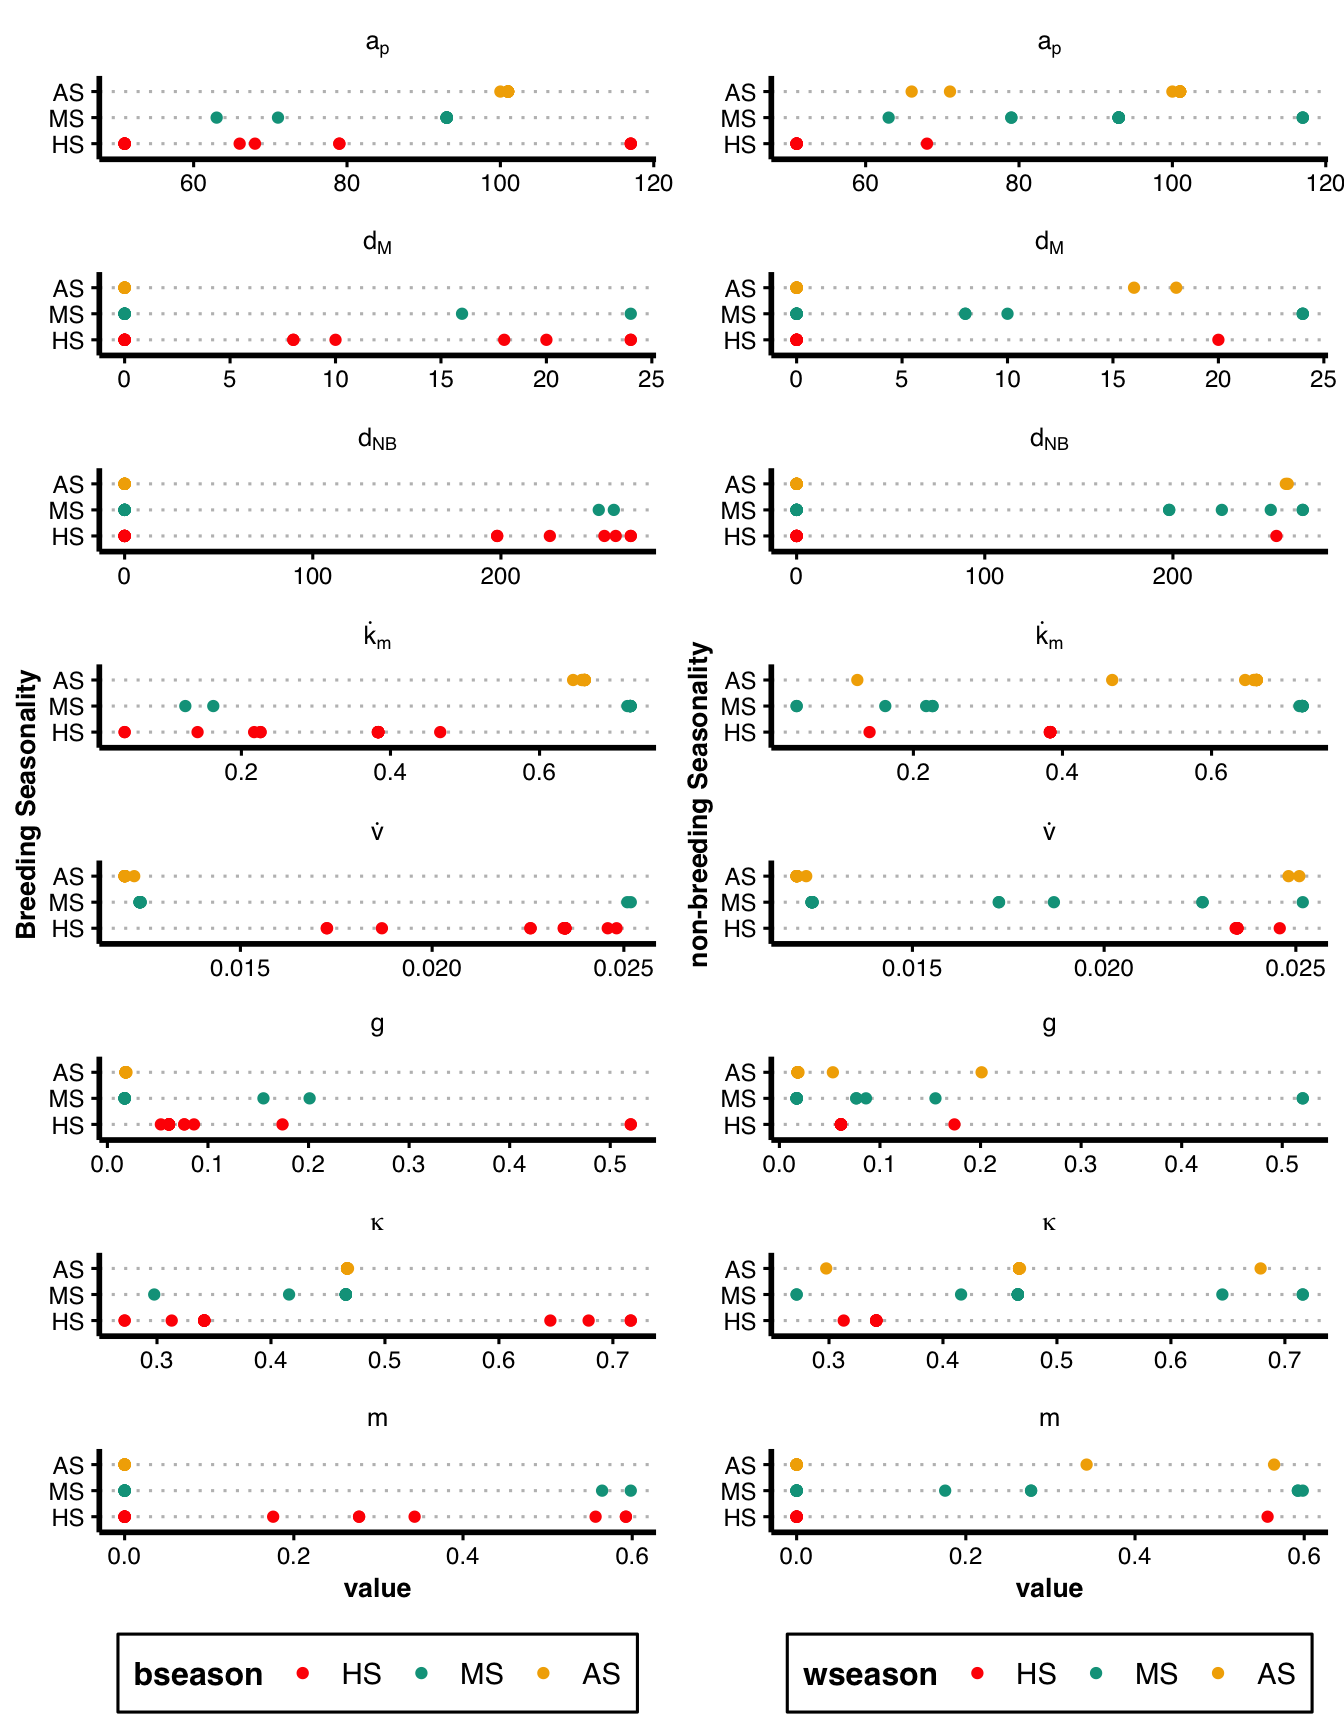
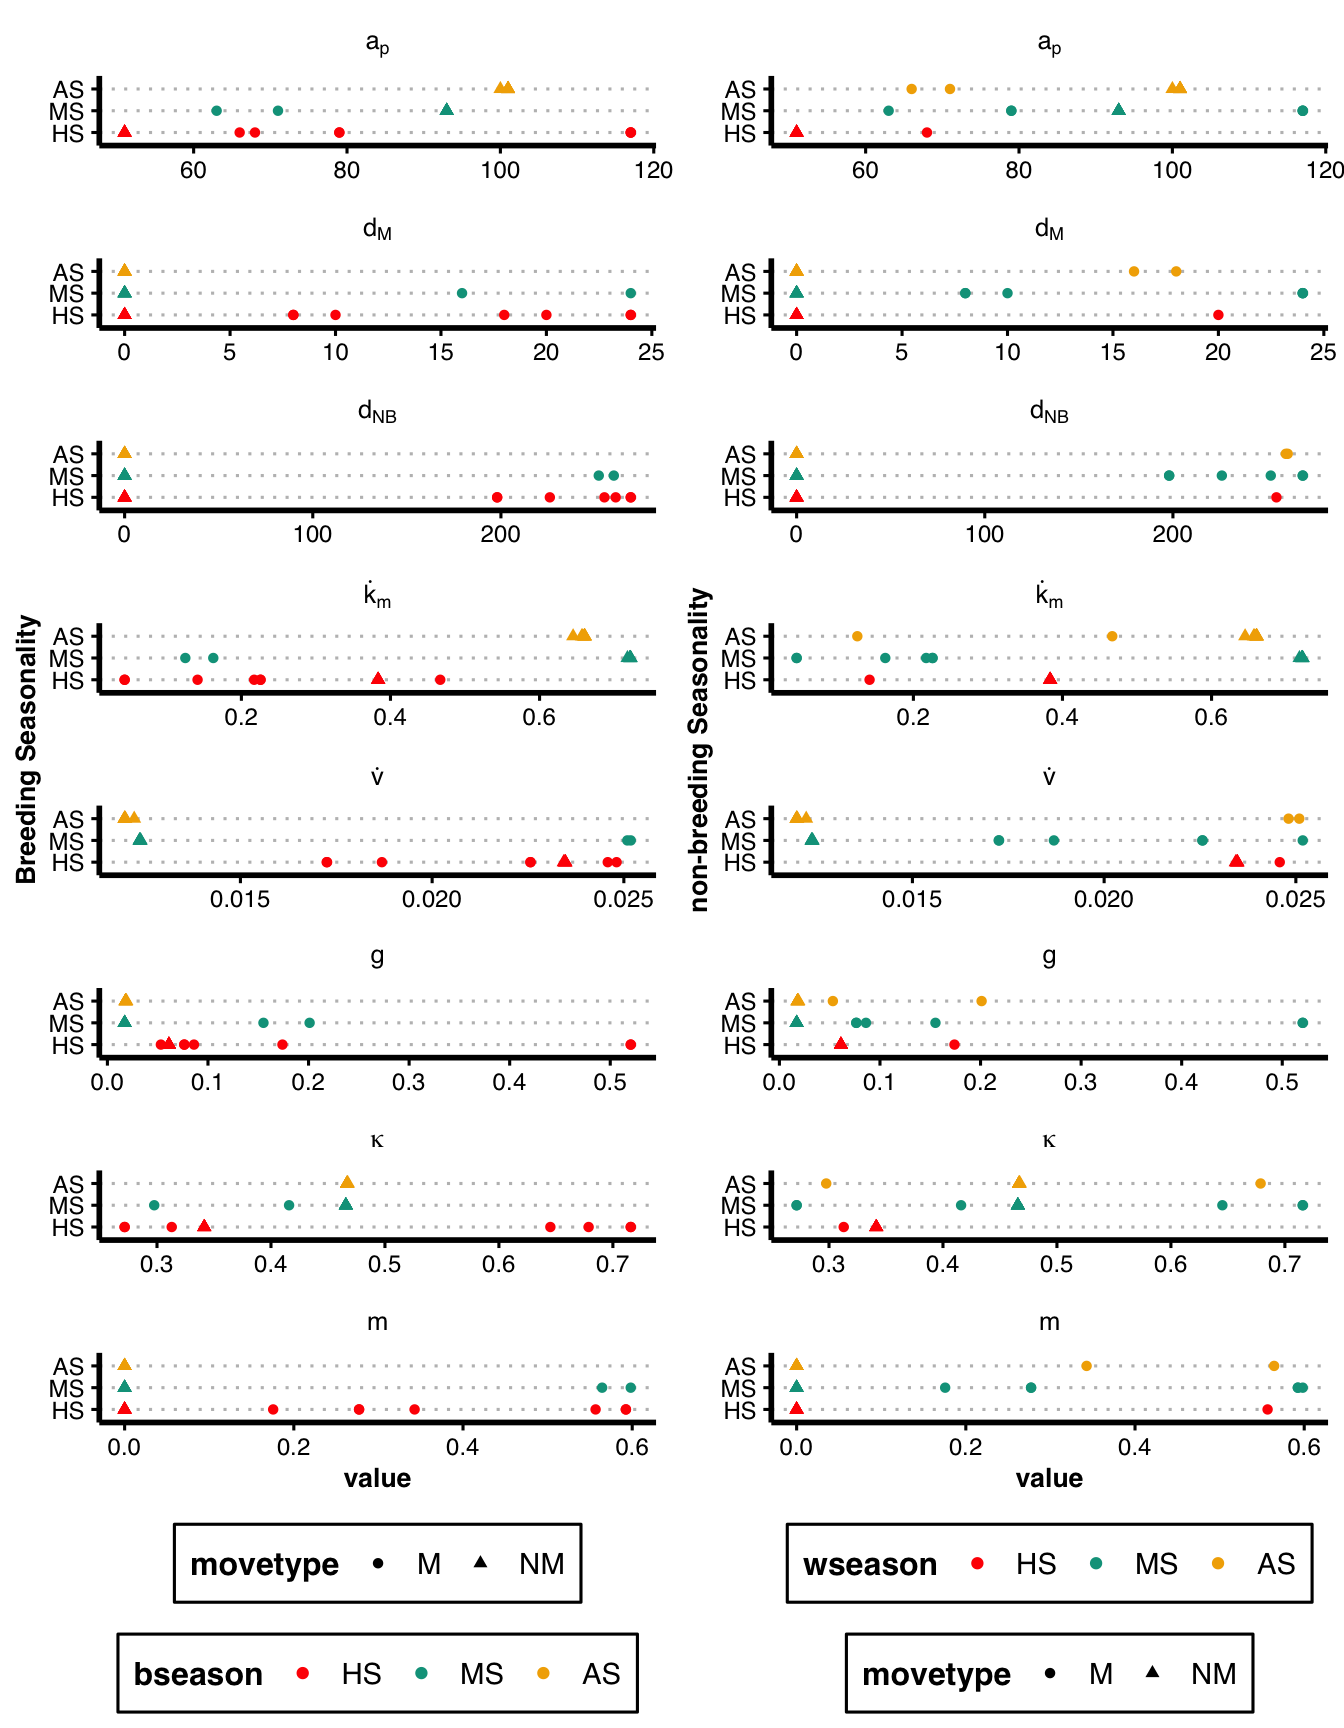
minor edits

Changed region(s): [[0.0, 0.1562, 1.0, 1.0], [0.5312, 0.0312, 1.0, 0.125], [0.0312, 0.0312, 0.5, 0.125]]

diff --git a/Analyses/Analyses.html b/Analyses/Analyses.html
@@ -1685,9 +1685,9 @@ pre > code.sourceCode > span > a:first-child::before { text-decoration: underlin
 <span id="cb14-60"><a href="#cb14-60" aria-hidden="true" tabindex="-1"></a>                        <span class="st">"km"</span> <span class="ot">=</span> <span class="st">"dot(k)[m]"</span>,</span>
 <span id="cb14-61"><a href="#cb14-61" aria-hidden="true" tabindex="-1"></a>                        <span class="at">.default =</span> var</span>
 <span id="cb14-62"><a href="#cb14-62" aria-hidden="true" tabindex="-1"></a>  )) <span class="sc">%&gt;%</span></span>
-<span id="cb14-63"><a href="#cb14-63" aria-hidden="true" tabindex="-1"></a>  <span class="fu">select</span>(dist, var, value, bseason) <span class="sc">%&gt;%</span></span>
+<span id="cb14-63"><a href="#cb14-63" aria-hidden="true" tabindex="-1"></a>  <span class="fu">select</span>(dist, var, value, bseason, movetype) <span class="sc">%&gt;%</span></span>
 <span id="cb14-64"><a href="#cb14-64" aria-hidden="true" tabindex="-1"></a>  <span class="fu">ggplot</span>() <span class="sc">+</span></span>
-<span id="cb14-65"><a href="#cb14-65" aria-hidden="true" tabindex="-1"></a>  <span class="fu">geom_point</span>(<span class="fu">aes</span>(<span class="at">y =</span> bseason, <span class="at">x =</span> value, <span class="at">col =</span> bseason)) <span class="sc">+</span></span>
+<span id="cb14-65"><a href="#cb14-65" aria-hidden="true" tabindex="-1"></a>  <span class="fu">geom_point</span>(<span class="fu">aes</span>(<span class="at">y =</span> bseason, <span class="at">x =</span> value, <span class="at">col =</span> bseason, <span class="at">shape =</span> movetype)) <span class="sc">+</span></span>
 <span id="cb14-66"><a href="#cb14-66" aria-hidden="true" tabindex="-1"></a>  <span class="fu">facet_col</span>(var<span class="sc">~</span>.,<span class="at">scales =</span> <span class="st">"free"</span>, <span class="at">labeller =</span> label_parsed) <span class="sc">+</span></span>
 <span id="cb14-67"><a href="#cb14-67" aria-hidden="true" tabindex="-1"></a>  <span class="fu">scale_alpha</span>(<span class="at">guide =</span> <span class="st">"none"</span>) <span class="sc">+</span></span>
 <span id="cb14-68"><a href="#cb14-68" aria-hidden="true" tabindex="-1"></a>  <span class="fu">labs</span>(<span class="at">y =</span> <span class="st">"Breeding Seasonality"</span>) <span class="sc">+</span></span>
@@ -1698,7 +1698,7 @@ pre > code.sourceCode > span > a:first-child::before { text-decoration: underlin
 <span id="cb14-73"><a href="#cb14-73" aria-hidden="true" tabindex="-1"></a>        <span class="at">axis.line.y =</span> <span class="fu">element_line</span>(<span class="at">linewidth=</span><span class="dv">1</span>),</span>
 <span id="cb14-74"><a href="#cb14-74" aria-hidden="true" tabindex="-1"></a>        <span class="at">axis.line.x =</span> <span class="fu">element_line</span>(<span class="at">linewidth=</span><span class="dv">1</span>),</span>
 <span id="cb14-75"><a href="#cb14-75" aria-hidden="true" tabindex="-1"></a>        <span class="at">plot.background =</span> <span class="fu">element_blank</span>(),</span>
-<span id="cb14-76"><a href="#cb14-76" aria-hidden="true" tabindex="-1"></a>        <span class="at">legend.position =</span> <span class="st">"bottom"</span></span>
+<span id="cb14-76"><a href="#cb14-76" aria-hidden="true" tabindex="-1"></a>        <span class="at">legend.position =</span> <span class="st">"bottom"</span>, <span class="at">legend.box=</span><span class="st">"vertical"</span></span>
 <span id="cb14-77"><a href="#cb14-77" aria-hidden="true" tabindex="-1"></a>  )</span>
 <span id="cb14-78"><a href="#cb14-78" aria-hidden="true" tabindex="-1"></a></span>
 <span id="cb14-79"><a href="#cb14-79" aria-hidden="true" tabindex="-1"></a>paramsnbs <span class="ot">&lt;-</span> dftop <span class="sc">%&gt;%</span></span>
@@ -1711,9 +1711,9 @@ pre > code.sourceCode > span > a:first-child::before { text-decoration: underlin
 <span id="cb14-86"><a href="#cb14-86" aria-hidden="true" tabindex="-1"></a>                        <span class="st">"km"</span> <span class="ot">=</span> <span class="st">"dot(k)[m]"</span>,</span>
 <span id="cb14-87"><a href="#cb14-87" aria-hidden="true" tabindex="-1"></a>                        <span class="at">.default =</span> var</span>
 <span id="cb14-88"><a href="#cb14-88" aria-hidden="true" tabindex="-1"></a>  )) <span class="sc">%&gt;%</span></span>
-<span id="cb14-89"><a href="#cb14-89" aria-hidden="true" tabindex="-1"></a>  <span class="fu">select</span>(dist, var, value, wseason) <span class="sc">%&gt;%</span></span>
+<span id="cb14-89"><a href="#cb14-89" aria-hidden="true" tabindex="-1"></a>  <span class="fu">select</span>(dist, var, value, wseason, movetype) <span class="sc">%&gt;%</span></span>
 <span id="cb14-90"><a href="#cb14-90" aria-hidden="true" tabindex="-1"></a>  <span class="fu">ggplot</span>() <span class="sc">+</span></span>
-<span id="cb14-91"><a href="#cb14-91" aria-hidden="true" tabindex="-1"></a>  <span class="fu">geom_point</span>(<span class="fu">aes</span>(<span class="at">y =</span> wseason, <span class="at">x =</span> value, <span class="at">col =</span> wseason)) <span class="sc">+</span></span>
+<span id="cb14-91"><a href="#cb14-91" aria-hidden="true" tabindex="-1"></a>  <span class="fu">geom_point</span>(<span class="fu">aes</span>(<span class="at">y =</span> wseason, <span class="at">x =</span> value, <span class="at">col =</span> wseason, <span class="at">shape =</span> movetype)) <span class="sc">+</span></span>
 <span id="cb14-92"><a href="#cb14-92" aria-hidden="true" tabindex="-1"></a>  <span class="fu">facet_col</span>(var<span class="sc">~</span>.,<span class="at">scales =</span> <span class="st">"free"</span>, <span class="at">labeller =</span> label_parsed) <span class="sc">+</span></span>
 <span id="cb14-93"><a href="#cb14-93" aria-hidden="true" tabindex="-1"></a>  <span class="fu">scale_alpha</span>(<span class="at">guide =</span> <span class="st">"none"</span>) <span class="sc">+</span></span>
 <span id="cb14-94"><a href="#cb14-94" aria-hidden="true" tabindex="-1"></a>  <span class="fu">labs</span>(<span class="at">y =</span> <span class="st">"non-breeding Seasonality"</span>) <span class="sc">+</span></span>
@@ -1724,7 +1724,7 @@ pre > code.sourceCode > span > a:first-child::before { text-decoration: underlin
 <span id="cb14-99"><a href="#cb14-99" aria-hidden="true" tabindex="-1"></a>        <span class="at">axis.line.y =</span> <span class="fu">element_line</span>(<span class="at">linewidth=</span><span class="dv">1</span>),</span>
 <span id="cb14-100"><a href="#cb14-100" aria-hidden="true" tabindex="-1"></a>        <span class="at">axis.line.x =</span> <span class="fu">element_line</span>(<span class="at">linewidth=</span><span class="dv">1</span>),</span>
 <span id="cb14-101"><a href="#cb14-101" aria-hidden="true" tabindex="-1"></a>        <span class="at">plot.background =</span> <span class="fu">element_blank</span>(),</span>
-<span id="cb14-102"><a href="#cb14-102" aria-hidden="true" tabindex="-1"></a>        <span class="at">legend.position =</span> <span class="st">"bottom"</span></span>
+<span id="cb14-102"><a href="#cb14-102" aria-hidden="true" tabindex="-1"></a>        <span class="at">legend.position =</span> <span class="st">"bottom"</span>, <span class="at">legend.box=</span><span class="st">"vertical"</span></span>
 <span id="cb14-103"><a href="#cb14-103" aria-hidden="true" tabindex="-1"></a>  )</span>
 <span id="cb14-104"><a href="#cb14-104" aria-hidden="true" tabindex="-1"></a></span>
 <span id="cb14-105"><a href="#cb14-105" aria-hidden="true" tabindex="-1"></a><span class="co">#paramsem</span></span>
